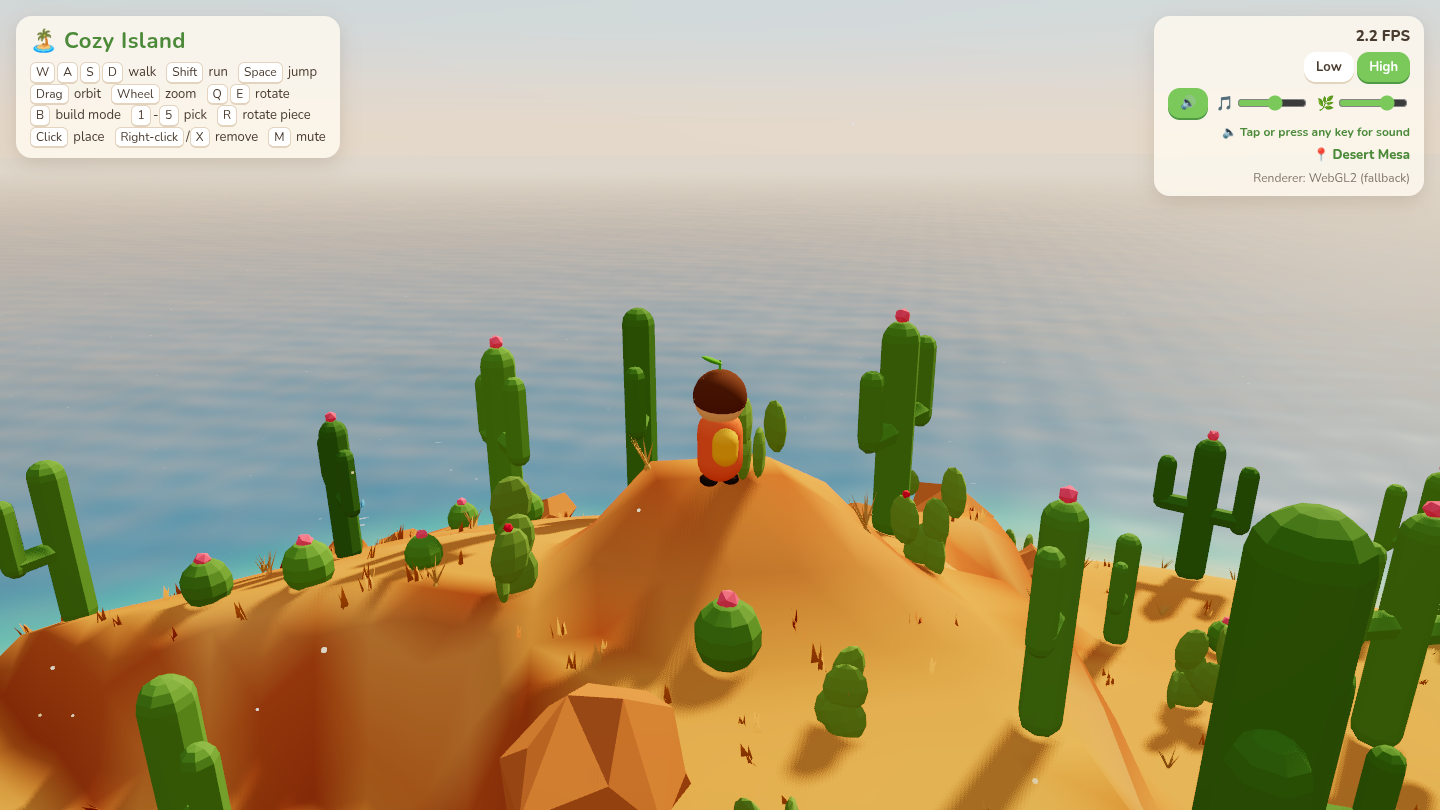
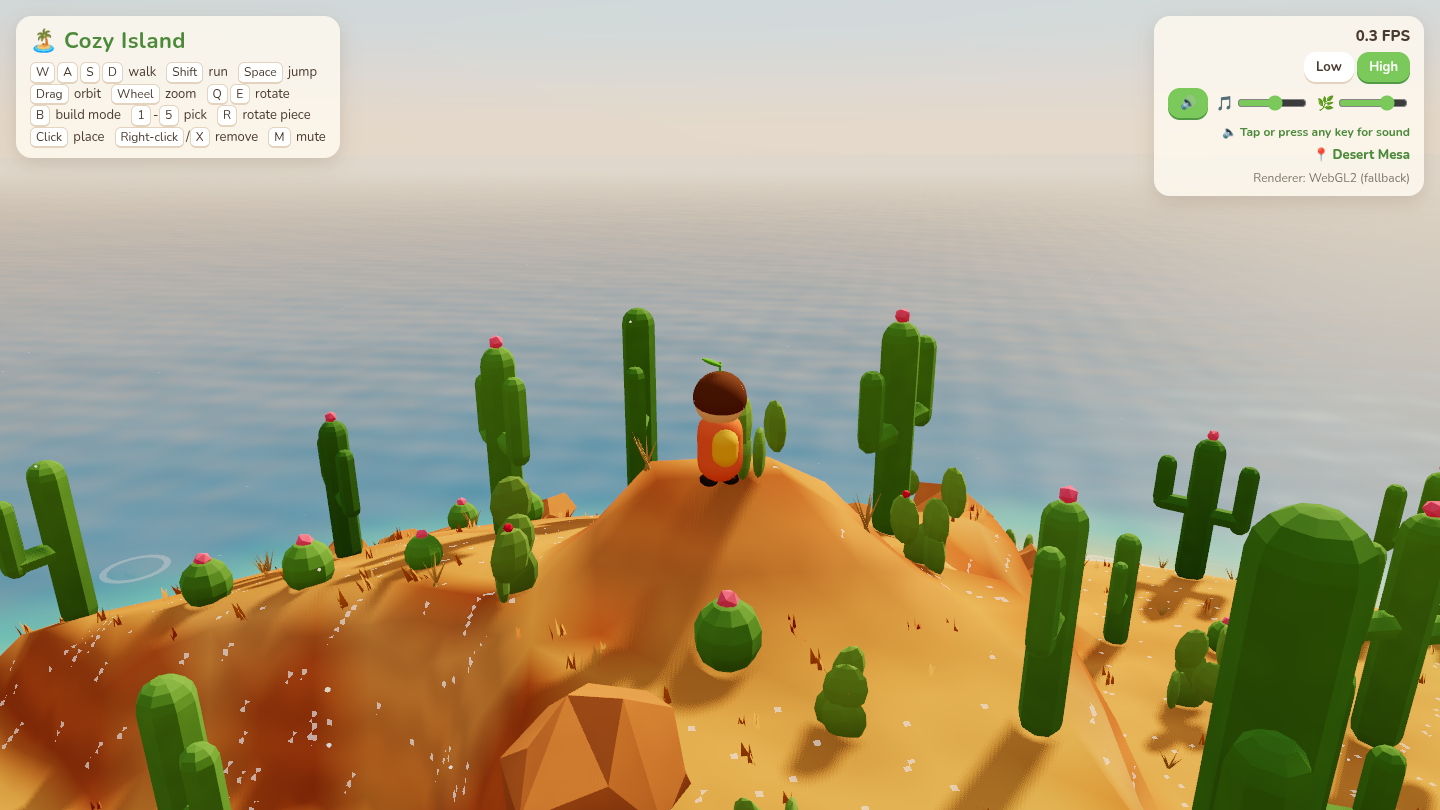
Perf: 3x3 chunked instancing (frustum + shadow culling). Visuals: procedural terrain detail (clumps, ripples, strata, glints), flora grain, rim + foliage translucency, baked AO in plants and under trees, tapered occlusion fade

diff --git a/src/world/Flora.ts b/src/world/Flora.ts
@@ -2,6 +2,7 @@ import * as THREE from 'three/webgpu';
 import {
   attribute, bool, clamp, cos, dot, float, floor, fract, length, mix, positionLocal, positionWorld,
   screenCoordinate, sin, smoothstep, time, uniform, uv, vec2, vec3,
+  mx_noise_float, normalize, cameraPosition, pow, normalView, positionViewDirection, vertexColor,
 } from 'three/tsl';
 import { mulberry32 } from './noise';
 import { Biome, BIOME_COUNT, POND } from './Biomes';
@@ -13,6 +14,7 @@ import type { Physics } from '../core/Physics';
 export const fadeCam = uniform(new THREE.Vector3(0, 50, 50));
 export const fadeTarget = uniform(new THREE.Vector3());
 export const windStrength = uniform(1);
+export const sunDirU = uniform(new THREE.Vector3(-0.5, 0.78, -0.6).normalize());
 
 /** Vertex-coloured, flat-shaded, wind-swaying material that dithers out when it blocks the camera. */
 export function floraMaterial(opts: { rough?: number; side?: THREE.Side } = {}) {
@@ -26,6 +28,15 @@ export function floraMaterial(opts: { rough?: number; side?: THREE.Side } = {}) 
     cos(t.mul(1.1).add(pl.z.mul(0.3))).mul(0.7),
   ).mul(0.055).mul(sway).mul(windStrength);
   m.positionNode = pl.add(wv);
+  // subtle world-space grain (bark / leaf / rock variation) instead of textures
+  const pw = positionWorld;
+  const grain = mx_noise_float(pw.mul(3.2)).mul(0.07).add(mx_noise_float(pw.mul(0.7)).mul(0.06)).add(1);
+  m.colorNode = vec3(grain);
+  // rim light + fake foliage translucency (canopy glows when looking toward the sun)
+  const vdir = normalize(pw.sub(cameraPosition));
+  const rim = pow(float(1).sub(clamp(dot(normalView, positionViewDirection), 0, 1)), 3);
+  const back = pow(clamp(dot(vdir, sunDirU), 0, 1), 3).mul(sway.min(1));
+  m.emissiveNode = vertexColor().mul(rim.mul(0.16).add(back.mul(0.45)));
   m.maskNode = occlusionMask();
   m.maskShadowNode = bool(true); // shadows stay solid
   return m;
@@ -36,7 +47,8 @@ export function occlusionMask() {
   const ct = tg.sub(c);
   const tt = clamp(dot(p.sub(c), ct).div(dot(ct, ct).max(0.001)), 0, 1);
   const d = length(p.sub(c.add(ct.mul(tt))));
-  const fade = smoothstep(float(1.9), float(1.0), d).mul(smoothstep(float(0.93), float(0.78), tt));
+  const rad = mix(float(0.8), float(1.9), tt);
+  const fade = smoothstep(rad, rad.mul(0.5), d).mul(smoothstep(float(0.93), float(0.78), tt));
   // interleaved gradient noise: even, low-clump dither
   const hash = fract(fract(dot(floor(screenCoordinate.xy), vec2(0.06711056, 0.00583715))).mul(52.9829189));
   return hash.greaterThan(fade.mul(0.92));
@@ -99,12 +111,14 @@ export class Flora {
   group = new THREE.Group();
   private scalable: { mesh: THREE.InstancedMesh; max: number; low: number }[] = [];
   grass!: THREE.InstancedMesh;
-  private grassMax = 0;
   leafLitter!: THREE.InstancedMesh;
   clouds: THREE.Group[] = [];
   /** tree positions (for birds landing / audio density) */
   trees: THREE.Vector3[] = [];
   flowerSpots: THREE.Vector3[] = [];
+  /** every placed plant (used for foraging spots) */
+  aoPoints: { x: number; z: number; r: number }[] = [];
+  spots: { name: string; x: number; z: number; h: number; sc: number }[] = [];
 
   constructor(physics: Physics, spawn: THREE.Vector2) {
     const rnd = mulberry32(42);
@@ -157,9 +171,11 @@ export class Flora {
           const br = 0.88 + rnd() * 0.24;
           im.setColorAt(placed, tint.setRGB(br, br, br * (0.95 + rnd() * 0.1)));
           if (spec.collide === 'trunk') { physics.addCylinder(x, h + 1, z, 1, 0.28 * sc); this.trees.push(new THREE.Vector3(x, h, z)); }
+          if (spec.shadow !== false && !spec.water) this.aoPoints.push({ x, z, r: (spec.collide === 'trunk' ? 1.4 : 0.6) * sc });
           if (spec.collide === 'cactus') physics.addCylinder(x, h + 1.2, z, 1.2, 0.35 * sc);
           if (spec.collide === 'ball') physics.addBall(x, h + 0.2, z, 0.75 * sc);
           if (spec.name === 'sunflower' || spec.name === 'lupine' || spec.name === 'hibiscus') this.flowerSpots.push(new THREE.Vector3(x, h, z));
+          this.spots.push({ name: spec.name, x, z, h, sc });
           placed++;
         }
         im.count = placed;
@@ -174,7 +190,47 @@ export class Flora {
     this.buildFlowers(rnd, free);
     this.buildGrass(rnd, free);
     this.buildLeafLitter(rnd);
+    this.chunkAll();
     this.buildClouds(rnd);
+  }
+
+  /**
+   * Split every island-wide InstancedMesh into 3x3 regional chunks so the
+   * renderer can frustum-cull them (main camera and the sun's shadow camera).
+   */
+  private chunkAll() {
+    const N = 3, size = 108, cell = size / N;
+    const lowOf = new Map<THREE.InstancedMesh, number>();
+    for (const s of this.scalable) lowOf.set(s.mesh, s.low);
+    lowOf.set(this.grass, 0.3);
+    const next: { mesh: THREE.InstancedMesh; max: number; low: number }[] = [];
+    const m = new THREE.Matrix4(), c = new THREE.Color(), p = new THREE.Vector3();
+    for (const im of [...this.group.children] as THREE.InstancedMesh[]) {
+      if (!im.isInstancedMesh) continue;
+      const buckets: number[][] = Array.from({ length: N * N }, () => []);
+      for (let i = 0; i < im.count; i++) {
+        im.getMatrixAt(i, m); p.setFromMatrixPosition(m);
+        const cx = Math.min(N - 1, Math.max(0, Math.floor((p.x + size / 2) / cell)));
+        const cz = Math.min(N - 1, Math.max(0, Math.floor((p.z + size / 2) / cell)));
+        buckets[cz * N + cx].push(i);
+      }
+      this.group.remove(im);
+      for (const b of buckets) {
+        if (!b.length) continue;
+        const ch = new THREE.InstancedMesh(im.geometry, im.material, b.length);
+        b.forEach((src, k) => {
+          im.getMatrixAt(src, m); ch.setMatrixAt(k, m);
+          if (im.instanceColor) { im.getColorAt(src, c); ch.setColorAt(k, c); }
+        });
+        ch.castShadow = im.castShadow; ch.receiveShadow = im.receiveShadow; ch.name = im.name;
+        ch.computeBoundingSphere();
+        ch.frustumCulled = true;
+        this.group.add(ch);
+        const low = lowOf.get(im);
+        if (low !== undefined) next.push({ mesh: ch, max: b.length, low });
+      }
+    }
+    this.scalable = next;
   }
 
   private buildFlowers(rnd: () => number, free: (x: number, z: number, r: number) => boolean) {
@@ -272,7 +328,7 @@ export class Flora {
       grass.setColorAt(i, c);
       i++;
     }
-    grass.count = i; this.grassMax = i;
+    grass.count = i;
     grass.receiveShadow = true; grass.castShadow = false; grass.frustumCulled = false;
     this.grass = grass;
     this.group.add(grass);
@@ -330,7 +386,6 @@ export class Flora {
   }
 
   setQuality(high: boolean) {
-    this.grass.count = Math.floor(this.grassMax * (high ? 1 : 0.3));
     for (const s of this.scalable) s.mesh.count = Math.floor(s.max * (high ? 1 : s.low));
   }
 

diff --git a/src/world/Terrain.ts b/src/world/Terrain.ts
@@ -1,4 +1,5 @@
 import * as THREE from 'three/webgpu';
+import { attribute, cameraPosition, float, floor, fract, dot, mx_noise_float, positionWorld, sin, smoothstep, step, vec2, vec3 } from 'three/tsl';
 import { Noise2D } from './noise';
 import { Biome, BiomeField, BIOME_CENTERS, BIOME_COUNT, POND, biomeWeightsRaw } from './Biomes';
 
@@ -176,6 +177,7 @@ export class Terrain {
   mesh: THREE.Mesh;
   heightTexture: THREE.DataTexture;
   vertices: Float32Array;
+  private seg = 200;
   indices: Uint32Array;
 
   constructor() {
@@ -184,6 +186,7 @@ export class Terrain {
     geo.rotateX(-Math.PI / 2);
     const pos = geo.attributes.position as THREE.BufferAttribute;
     const colors = new Float32Array(pos.count * 3);
+    const mask = new Float32Array(pos.count * 4);
     const c = new THREE.Color();
     for (let i = 0; i < pos.count; i++) {
       const x = pos.getX(i), z = pos.getZ(i);
@@ -191,11 +194,33 @@ export class Terrain {
       pos.setY(i, h);
       if (h < -3.3) c.copy(SEABED); else terrainColor(x, z, h, c);
       colors.set([c.r, c.g, c.b], i * 3);
+      // detail masks for the shader: sand, snow, rock(slope), grass
+      const w = biomes.sample(x, z, wS);
+      const sandTop = 0.55 + w[Biome.Tropical] * 0.85;
+      const sand = Math.max(smooth(sandTop + 0.4, sandTop, h), w[Biome.Desert] * 0.8);
+      const snow = snowAt(x, z, h);
+      const rock = smooth(0.45, 0.85, slopeAt(x, z));
+      mask.set([sand, snow, rock, Math.max(0, 1 - sand - snow - rock)], i * 4);
     }
     geo.setAttribute('color', new THREE.BufferAttribute(colors, 3));
+    geo.setAttribute('mask', new THREE.BufferAttribute(mask, 4));
+    this.seg = seg;
     geo.computeVertexNormals();
 
     const mat = new THREE.MeshStandardNodeMaterial({ vertexColors: true, roughness: 0.92, metalness: 0 });
+    // Procedural detail layer (no textures): grass clumps, sand ripples, rock strata, snow/sand glints.
+    const mk = attribute('mask', 'vec4');
+    const pw = positionWorld;
+    const n1 = mx_noise_float(pw.xz.mul(1.7)), n2 = mx_noise_float(pw.xz.mul(0.33));
+    const grassD = n1.mul(0.11).add(n2.mul(0.09));
+    const ripple = sin(pw.x.mul(2.4).add(pw.z.mul(1.3)).add(n2.mul(3.5))).mul(0.05).add(n1.mul(0.03));
+    const strata = sin(pw.y.mul(6.5).add(n1.mul(1.6))).mul(0.08);
+    const detail = float(1).add(grassD.mul(mk.w)).add(ripple.mul(mk.x)).add(strata.mul(mk.z)).add(n1.mul(0.025).mul(mk.y));
+    mat.colorNode = vec3(detail);
+    const cell = floor(pw.mul(13));
+    const hsh = fract(sin(dot(cell.xz.add(cell.y).add(floor(cameraPosition.xz.mul(1.5))), vec2(12.9898, 78.233))).mul(43758.5453));
+    const glint = step(0.99, hsh).mul(mk.y.mul(0.8).add(mk.x.mul(0.12)));
+    mat.emissiveNode = vec3(glint).mul(smoothstep(float(60), float(10), pw.sub(cameraPosition).length()));
     this.mesh = new THREE.Mesh(geo, mat);
     this.mesh.receiveShadow = true;
     this.mesh.name = 'terrain';
@@ -220,6 +245,26 @@ export class Terrain {
     this.heightTexture.minFilter = THREE.LinearFilter;
     this.heightTexture.wrapS = this.heightTexture.wrapT = THREE.ClampToEdgeWrapping;
     this.heightTexture.needsUpdate = true;
+  }
+
+  /** Darken the ground under trees/bushes (cheap baked contact AO). */
+  bakeAO(points: { x: number; z: number; r: number }[]) {
+    const col = this.mesh.geometry.attributes.color as THREE.BufferAttribute;
+    const n = this.seg + 1, step = WORLD_SIZE / this.seg;
+    for (const p of points) {
+      const R = p.r * 1.7;
+      const i0 = Math.max(0, Math.floor((p.x - R + WORLD_SIZE / 2) / step)), i1 = Math.min(n - 1, Math.ceil((p.x + R + WORLD_SIZE / 2) / step));
+      const j0 = Math.max(0, Math.floor((p.z - R + WORLD_SIZE / 2) / step)), j1 = Math.min(n - 1, Math.ceil((p.z + R + WORLD_SIZE / 2) / step));
+      for (let j = j0; j <= j1; j++) for (let i = i0; i <= i1; i++) {
+        const x = i * step - WORLD_SIZE / 2, z = j * step - WORLD_SIZE / 2;
+        const d = Math.hypot(x - p.x, z - p.z);
+        if (d > R) continue;
+        const f = 1 - 0.24 * smooth(R, p.r * 0.25, d);
+        const k = j * n + i;
+        col.setXYZ(k, col.getX(k) * f, col.getY(k) * f, col.getZ(k) * f);
+      }
+    }
+    col.needsUpdate = true;
   }
 
   /** Ray march the height field (much cheaper than mesh raycasting). */

diff --git a/src/world/Baker.ts b/src/world/Baker.ts
@@ -6,6 +6,8 @@ import * as THREE from 'three/webgpu';
  * geometry = one InstancedMesh = one draw call for any number of plants/creatures.
  */
 export class Baker {
+  /** bake ambient occlusion into vertex colours */
+  ao = true;
   private parts: { g: THREE.BufferGeometry; c: THREE.Color; sway: number | ((y: number) => number) }[] = [];
   private m = new THREE.Matrix4();
   private q = new THREE.Quaternion();
@@ -27,11 +29,19 @@ export class Baker {
     for (const p of this.parts) n += p.g.attributes.position.count;
     const pos = new Float32Array(n * 3), col = new Float32Array(n * 3), sw = new Float32Array(n);
     let o = 0;
+    let topY = 0.05;
+    for (const p of this.parts) { p.g.computeBoundingBox(); topY = Math.max(topY, p.g.boundingBox!.max.y); }
+    const aoH = Math.min(0.7, topY * 0.5);
     for (const p of this.parts) {
       const a = p.g.attributes.position as THREE.BufferAttribute;
+      p.g.computeBoundingBox();
+      const bb = p.g.boundingBox!, cy = (bb.min.y + bb.max.y) / 2, hy = Math.max(0.05, (bb.max.y - bb.min.y) / 2);
       for (let i = 0; i < a.count; i++) {
         pos[(o + i) * 3] = a.getX(i); pos[(o + i) * 3 + 1] = a.getY(i); pos[(o + i) * 3 + 2] = a.getZ(i);
-        col[(o + i) * 3] = p.c.r; col[(o + i) * 3 + 1] = p.c.g; col[(o + i) * 3 + 2] = p.c.b;
+        // baked AO: darker near the ground and on the underside of each blob
+        const y = a.getY(i);
+        const ao = this.ao ? (0.7 + 0.3 * Math.min(1, Math.max(0, y / aoH))) * (0.86 + 0.14 * Math.min(1, Math.max(0, (y - cy) / hy * 0.5 + 0.5))) : 1;
+        col[(o + i) * 3] = p.c.r * ao; col[(o + i) * 3 + 1] = p.c.g * ao; col[(o + i) * 3 + 2] = p.c.b * ao;
         sw[o + i] = typeof p.sway === 'function' ? p.sway(a.getY(i)) : p.sway;
       }
       o += a.count;

diff --git a/src/core/Game.ts b/src/core/Game.ts
@@ -83,6 +83,7 @@ export class Game {
     this.scene.add(createWater(this.terrain.heightTexture));
     lap('water');
     this.flora = new Flora(this.physics, SPAWN);
+    this.terrain.bakeAO(this.flora.aoPoints);
     lap('flora');
     this.scene.add(this.flora.group);
     this.particles = new Particles();
